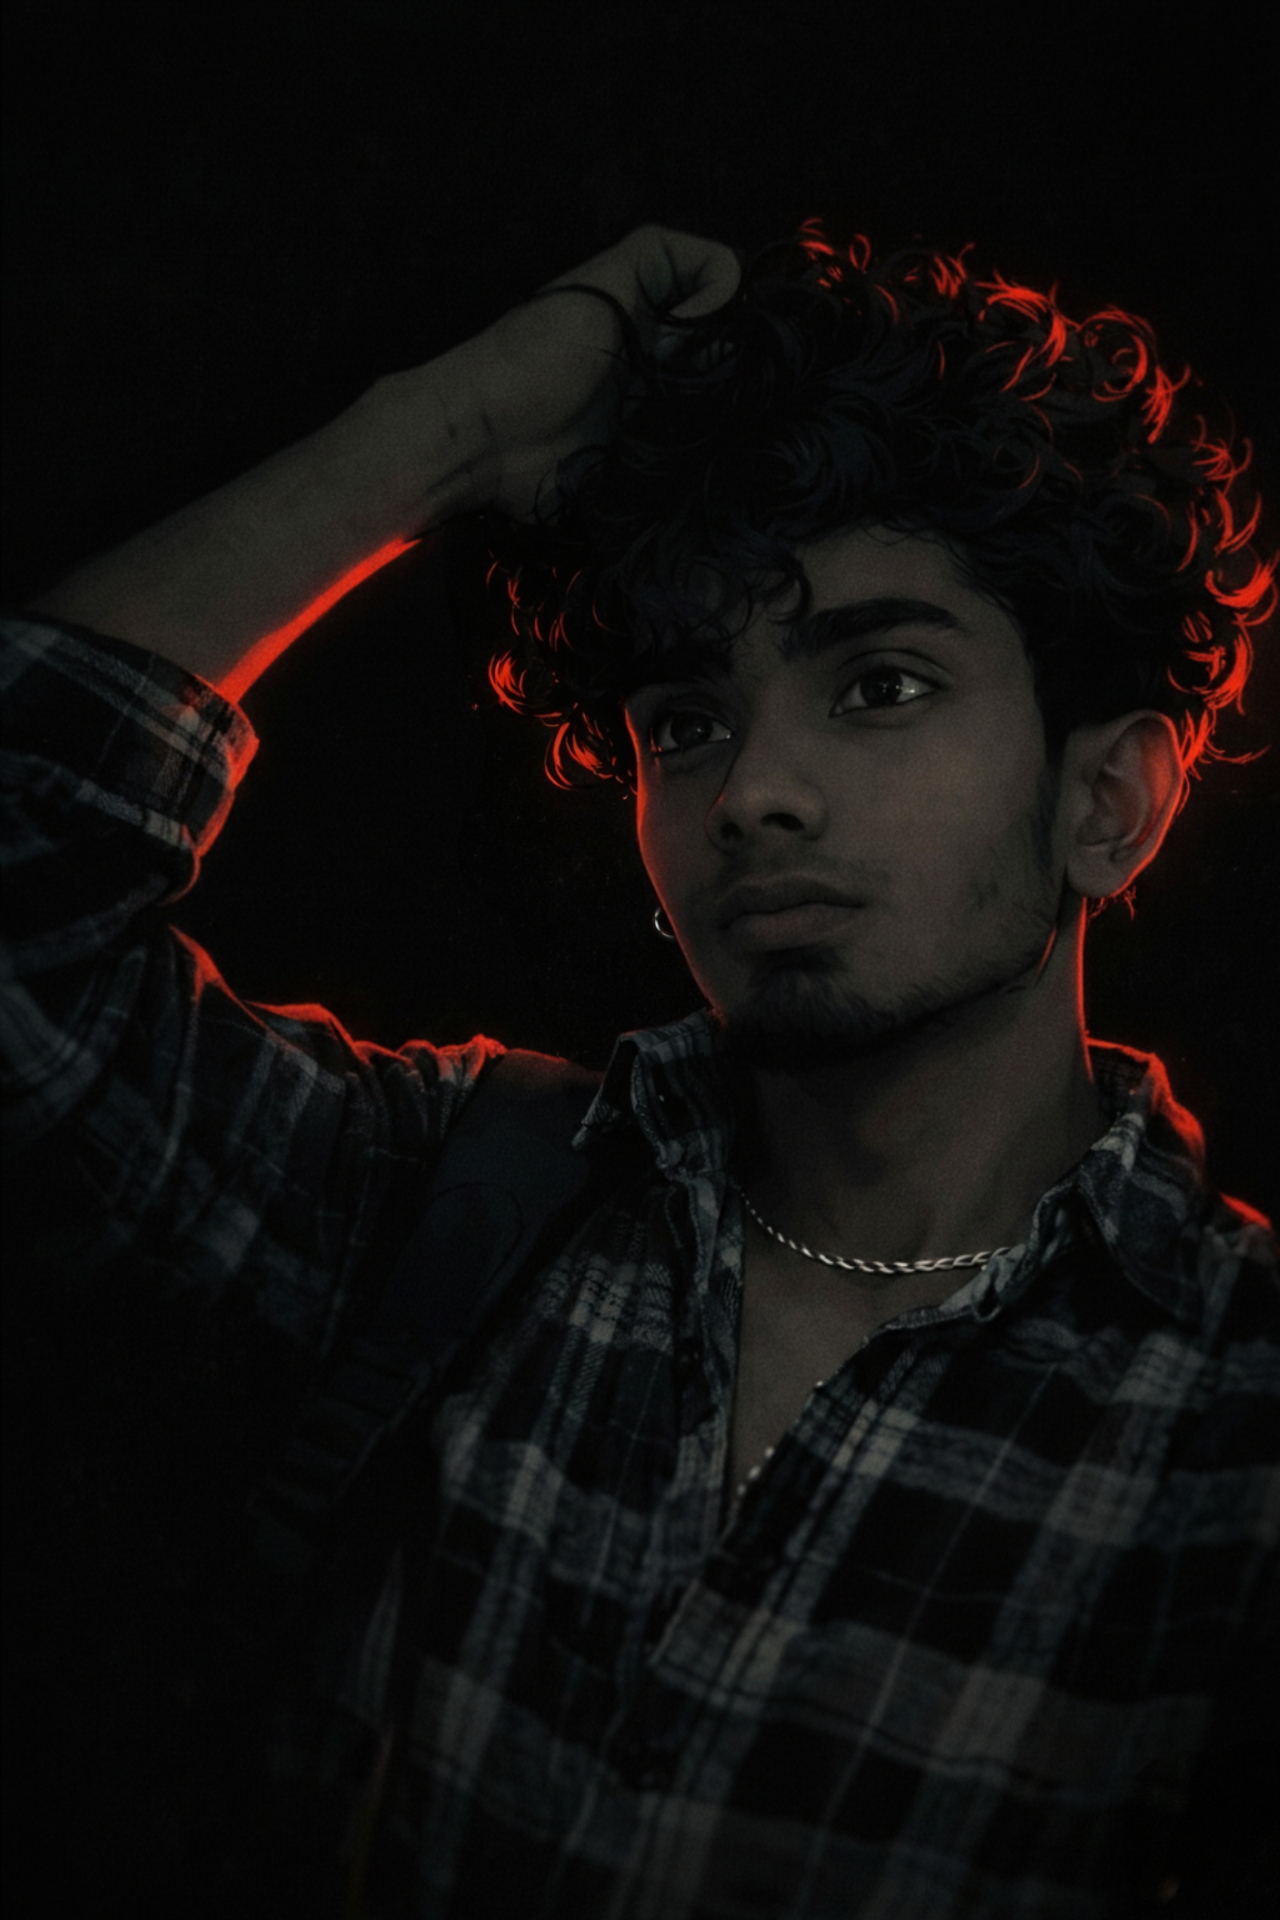
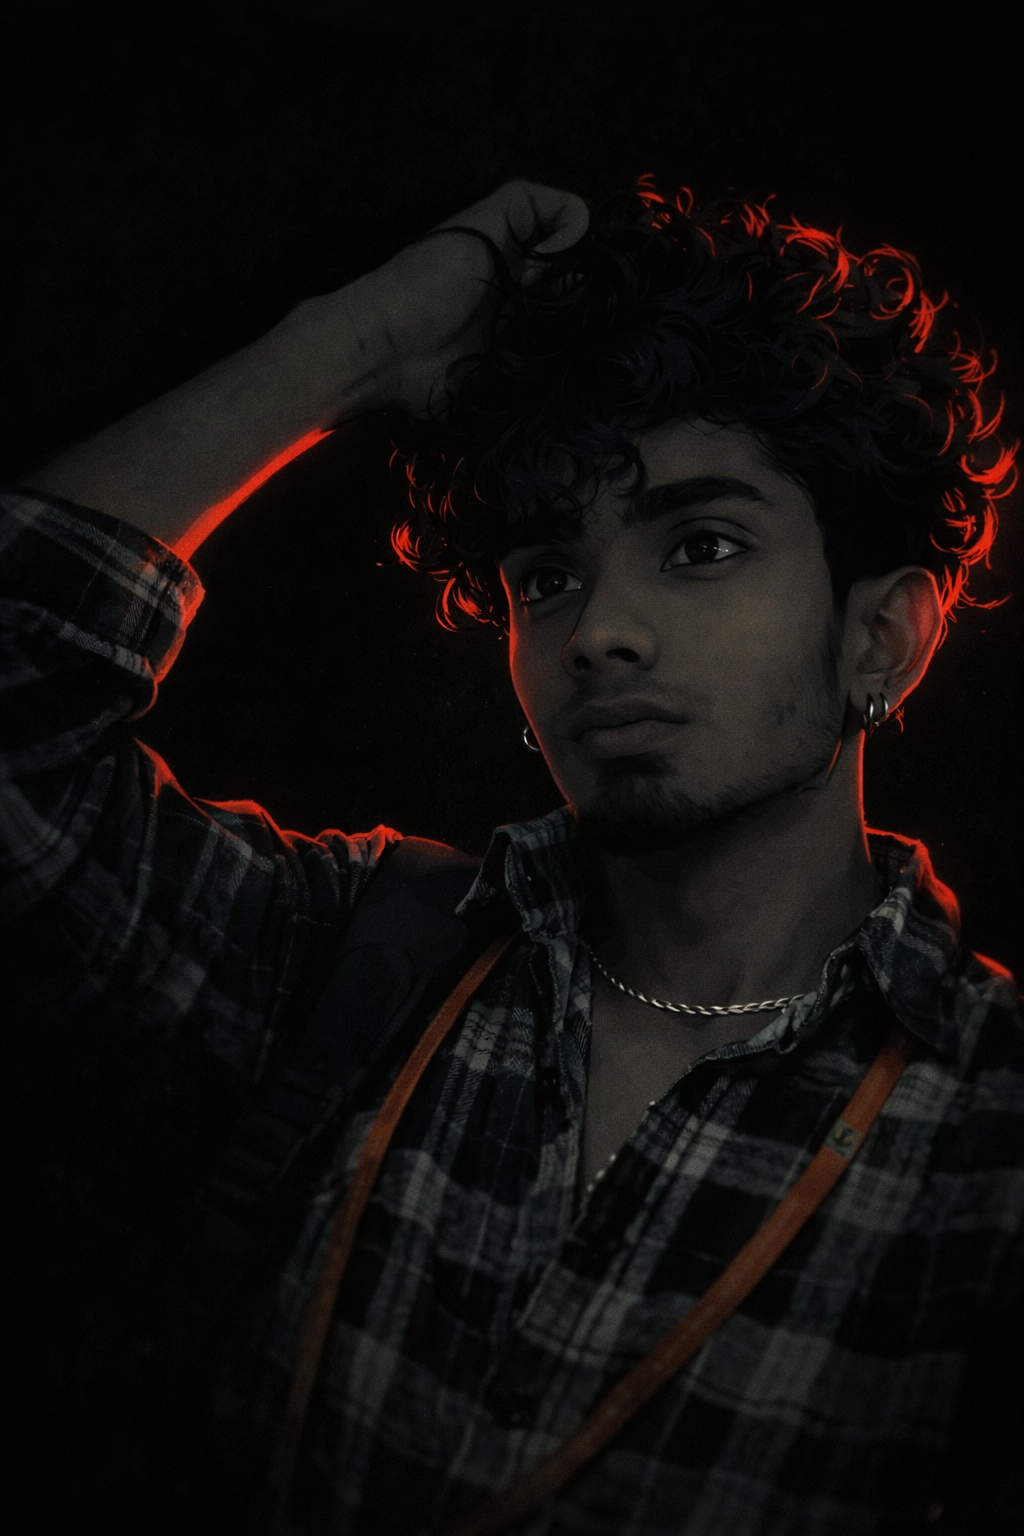
Changes

diff --git a/src/components/InfoSection.tsx b/src/components/InfoSection.tsx
@@ -1,63 +1,74 @@
 import { Instagram, Facebook } from "lucide-react";
-import ChibiAnimeGirl from "./ChibiAnimeGirl";
+import profileImg from "@/assets/profile.jpg";
 
 const InfoSection = () => {
   return (
-    <section className="min-h-screen flex flex-col items-center justify-center relative overflow-hidden pt-20 page-transition">
-      {/* Background gradient effects */}
-      <div className="absolute inset-0 bg-gradient-to-tl from-background via-background to-primary/5" />
-      <div className="absolute top-1/3 -right-32 w-96 h-96 bg-primary/15 rounded-full blur-3xl float-animation" />
-      <div className="absolute bottom-1/3 -left-32 w-64 h-64 bg-primary/10 rounded-full blur-3xl float-animation delay-200" />
+    <section className="min-h-screen flex flex-col relative overflow-hidden page-transition">
+      {/* Profile photo background */}
+      <div className="absolute inset-0">
+        <img
+          src={profileImg}
+          alt="Profile"
+          className="absolute inset-0 w-full h-full object-cover object-top"
+        />
+        {/* Gradient overlays for text readability */}
+        <div className="absolute inset-0 bg-gradient-to-r from-background via-background/80 to-transparent" />
+        <div className="absolute inset-0 bg-gradient-to-t from-background via-transparent to-background/60" />
+      </div>
       
-      <div className="container mx-auto px-6 relative z-10 flex-1 flex items-center">
-        <div className="max-w-4xl mx-auto w-full">
-          <div className="text-center mb-12">
-            <div className="fade-in-up opacity-0 delay-100">
-              <p className="text-primary text-sm uppercase tracking-widest mb-4">About Me</p>
+      {/* Floating content on left side */}
+      <div className="relative z-10 flex-1 flex items-center">
+        <div className="container mx-auto px-6 md:px-12">
+          <div className="max-w-md">
+            {/* About Me header */}
+            <div className="fade-in-up opacity-0 delay-100 mb-8">
+              <p className="text-primary text-xs uppercase tracking-[0.3em] mb-2">About</p>
+              <h1 className="text-4xl md:text-6xl font-bold text-foreground font-display">
+                Me
+              </h1>
             </div>
-          </div>
-          
-          <div className="fade-in-up opacity-0 delay-300 glass rounded-2xl p-6 md:p-10 glow-border">
-            <p className="text-muted-foreground leading-relaxed text-base md:text-lg text-center">
-              I Mess Around With Whatever Catches My Attention (For As Long As I Remember It). 
-              Kinda Forgetful, A Little Off-Minded, Not The Most Responsible Guy—But Hey,
-              <br /><br />
-              <span className="text-primary font-medium text-lg md:text-xl">I'm Easy To Vibe With!</span>
-            </p>
+            
+            {/* About text */}
+            <div className="fade-in-up opacity-0 delay-300">
+              <p className="text-muted-foreground leading-relaxed text-sm md:text-base">
+                I Mess Around With Whatever Catches My Attention (For As Long As I Remember It). 
+                Kinda Forgetful, A Little Off-Minded, Not The Most Responsible Guy—But Hey,
+              </p>
+              <p className="text-primary font-medium text-lg md:text-xl mt-4">
+                I'm Easy To Vibe With!
+              </p>
+            </div>
+            
+            {/* Social icons */}
+            <div className="fade-in-up opacity-0 delay-500 mt-10">
+              <div className="flex items-center gap-6">
+                <a 
+                  href="https://instagram.com/yuk3shh" 
+                  target="_blank"
+                  rel="noopener noreferrer"
+                  className="group flex items-center gap-3 text-muted-foreground hover:text-primary transition-colors duration-200"
+                >
+                  <div className="p-3 rounded-full glass hover:scale-110 transition-transform duration-200">
+                    <Instagram size={20} />
+                  </div>
+                  <span className="text-xs hidden md:inline">@yuk3shh</span>
+                </a>
+                <a 
+                  href="https://facebook.com/yukeshkumar" 
+                  target="_blank"
+                  rel="noopener noreferrer"
+                  className="group flex items-center gap-3 text-muted-foreground hover:text-primary transition-colors duration-200"
+                >
+                  <div className="p-3 rounded-full glass hover:scale-110 transition-transform duration-200">
+                    <Facebook size={20} />
+                  </div>
+                  <span className="text-xs hidden md:inline">yukeshkumar</span>
+                </a>
+              </div>
+            </div>
           </div>
         </div>
       </div>
-      
-      {/* Social icons at bottom */}
-      <div className="relative z-10 pb-8 fade-in-up opacity-0 delay-500">
-        <div className="flex items-center justify-center gap-8">
-          <a 
-            href="https://instagram.com/yuk3shh" 
-            target="_blank"
-            rel="noopener noreferrer"
-            className="group flex flex-col items-center gap-2 text-muted-foreground hover:text-primary transition-all duration-200"
-          >
-            <div className="p-3 rounded-full glass hover:scale-110 transition-transform duration-200 hover:shadow-[0_0_20px_hsl(var(--primary)/0.5)]">
-              <Instagram size={28} />
-            </div>
-            <span className="text-xs opacity-0 group-hover:opacity-100 transition-opacity duration-200">Instagram</span>
-          </a>
-          <a 
-            href="https://facebook.com/yukeshkumar" 
-            target="_blank"
-            rel="noopener noreferrer"
-            className="group flex flex-col items-center gap-2 text-muted-foreground hover:text-primary transition-all duration-200"
-          >
-            <div className="p-3 rounded-full glass hover:scale-110 transition-transform duration-200 hover:shadow-[0_0_20px_hsl(var(--primary)/0.5)]">
-              <Facebook size={28} />
-            </div>
-            <span className="text-xs opacity-0 group-hover:opacity-100 transition-opacity duration-200">Facebook</span>
-          </a>
-        </div>
-      </div>
-
-      {/* Chibi anime girl running around */}
-      <ChibiAnimeGirl />
     </section>
   );
 };
